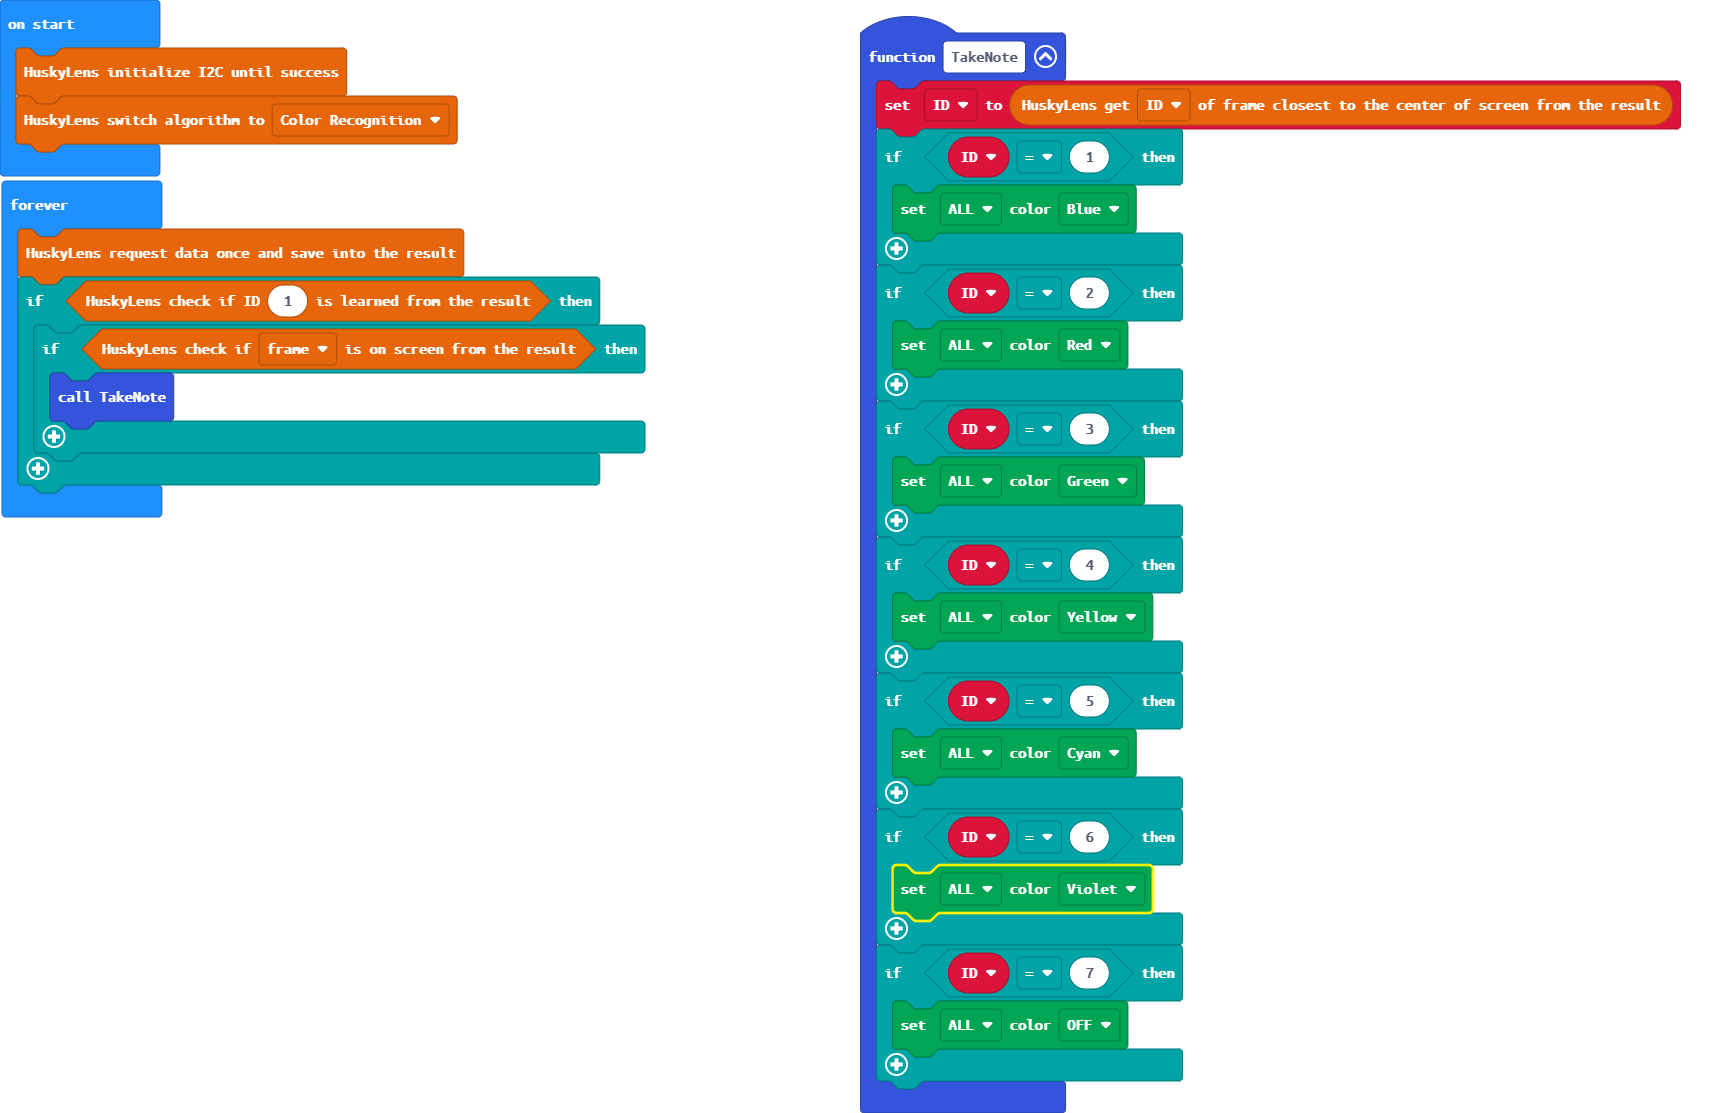
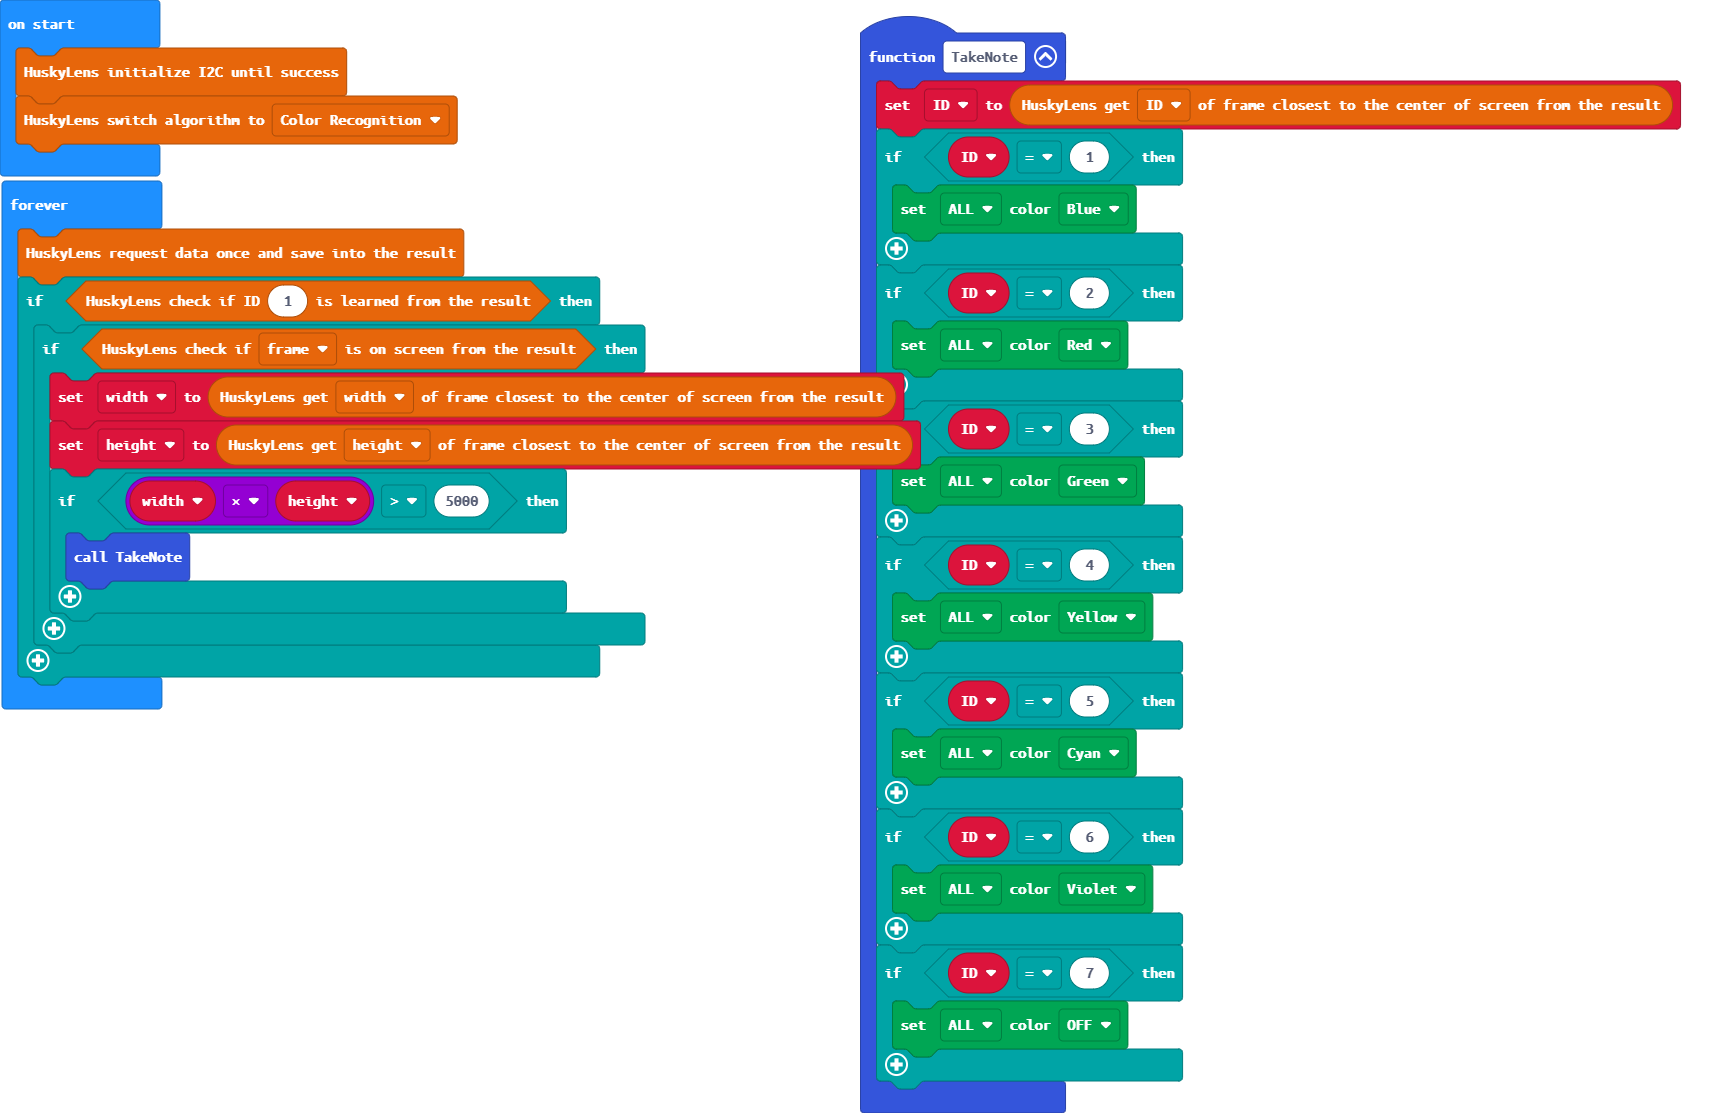
Update main.blocks, main.ts

Changed region(s): [[0.0, 0.336, 0.5297, 0.6415], [0.5297, 0.7637, 0.6544, 0.8248]]

diff --git a/main.ts b/main.ts
@@ -22,6 +22,8 @@ function TakeNote () {
         DFRobotMaqueenPlus.setRGBLight(RGBLight.RGBA, Color.OFF)
     }
 }
+let height = 0
+let width = 0
 let ID = 0
 huskylens.initI2c()
 huskylens.initMode(protocolAlgorithm.ALGORITHM_COLOR_RECOGNITION)
@@ -29,7 +31,11 @@ basic.forever(function () {
     huskylens.request()
     if (huskylens.isLearned(1)) {
         if (huskylens.isAppear_s(HUSKYLENSResultType_t.HUSKYLENSResultBlock)) {
-            TakeNote()
+            width = huskylens.readBox_s(Content3.width)
+            height = huskylens.readBox_s(Content3.height)
+            if (width * height > 5000) {
+                TakeNote()
+            }
         }
     }
 })
